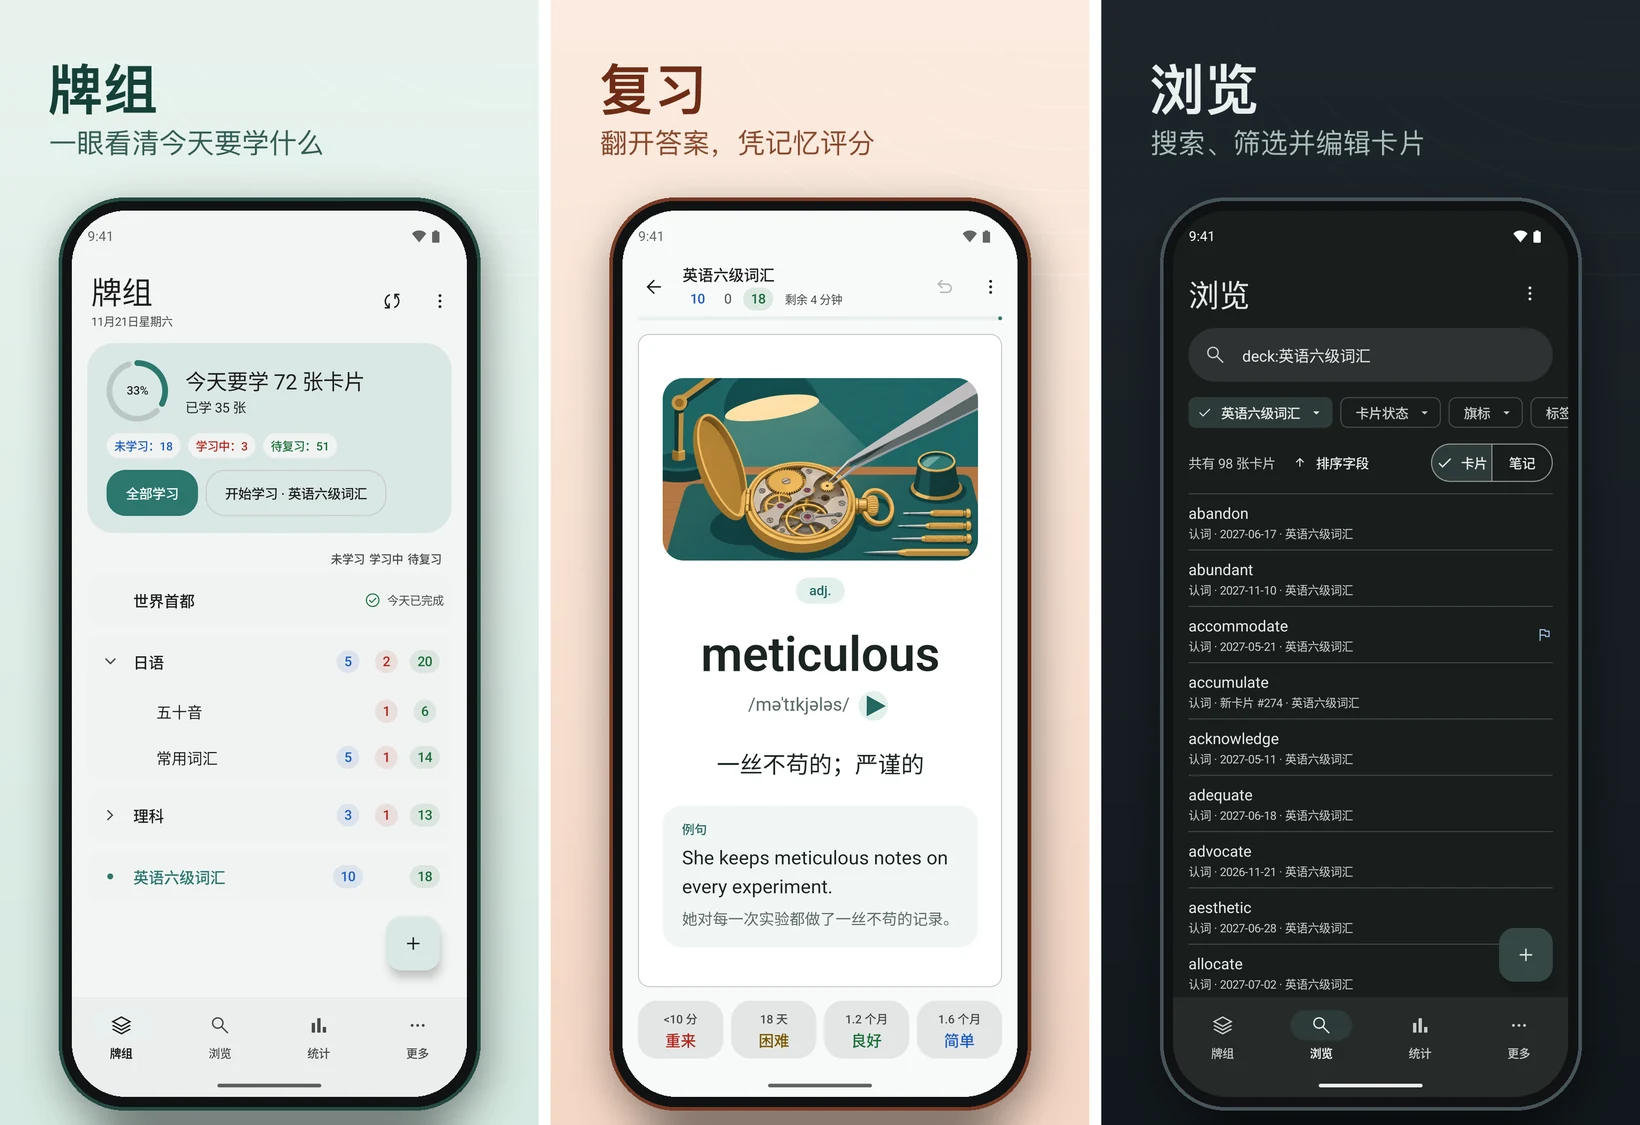
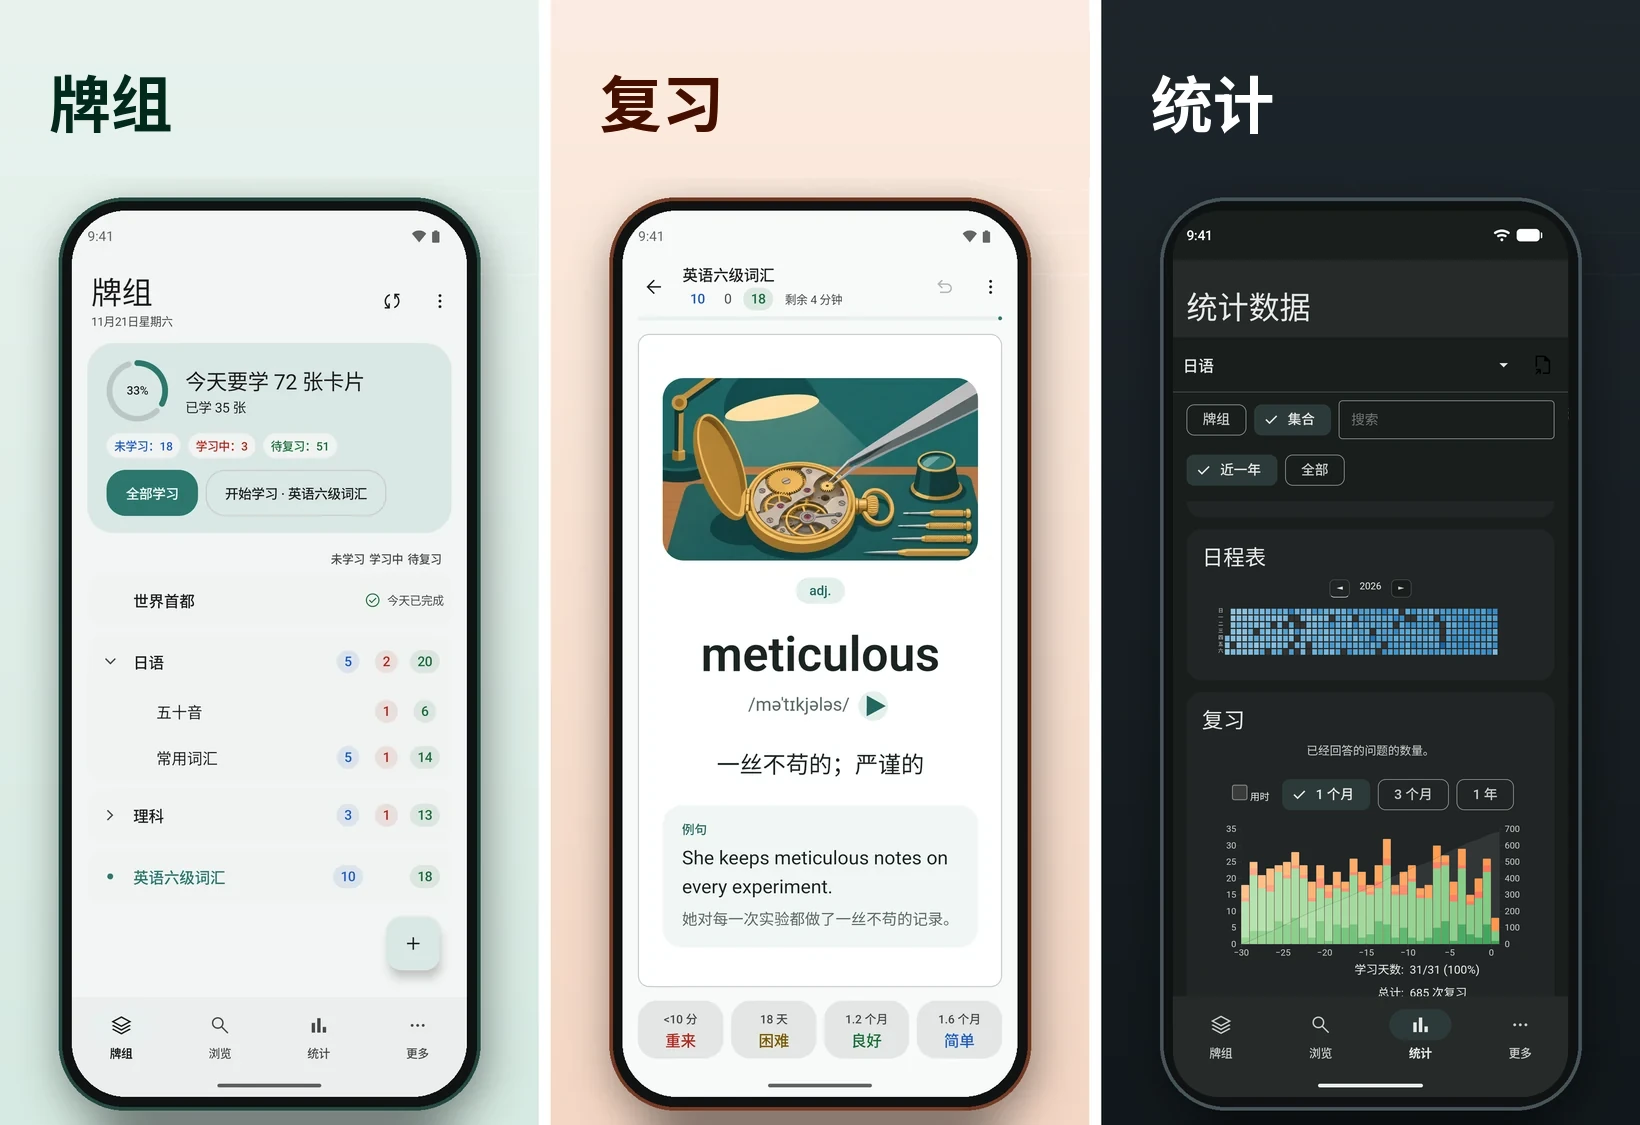
Show statistics in the README showcase and add project badges
Replace the card browser panel with a dark-mode statistics screen from
a sample collection with a year of simulated reviews, captured on
Android 17 with WebView 149. Drop the clipped subtitles and redraw the
three panel titles in one typeface.

Remove the separate review history section and its images, add the
Hayaki = Hayaku + Anki line, and add Android, SDK, Kotlin, Compose and
licence badges to both READMEs.

diff --git a/README.md b/README.md
@@ -2,19 +2,26 @@
 
 <h1 align="center">Hayaki for Android</h1>
 
+<p align="center"><b>Hayaki = Hayaku + Anki</b></p>
+
 <p align="center">An offline flashcard app for your Anki collection.</p>
 <p align="center">
   <a href="https://github.com/amemiya02/Hayaki/releases/latest"><img src="https://img.shields.io/github/v/release/amemiya02/Hayaki?label=Hayaki&amp;color=67539a" alt="Latest release"></a>
   <a href="https://github.com/amemiya02/Hayaki/actions/workflows/tests_unit.yml?query=branch%3Amain+event%3Apush"><img src="https://github.com/amemiya02/Hayaki/actions/workflows/tests_unit.yml/badge.svg?branch=main&amp;event=push" alt="Unit tests"></a>
   <a href="https://github.com/amemiya02/Hayaki/actions/workflows/tests_emulator.yml?query=branch%3Amain+event%3Apush"><img src="https://github.com/amemiya02/Hayaki/actions/workflows/tests_emulator.yml/badge.svg?branch=main&amp;event=push" alt="Emulator tests"></a>
   <a href="https://github.com/amemiya02/Hayaki/actions/workflows/lint.yml?query=branch%3Amain+event%3Apush"><img src="https://github.com/amemiya02/Hayaki/actions/workflows/lint.yml/badge.svg?branch=main&amp;event=push" alt="Code quality checks"></a>
+  <a href="#install-or-build"><img src="https://img.shields.io/badge/Android-7.0%2B-3DDC84?logo=android&amp;logoColor=white" alt="Android 7.0 or later"></a>
+  <a href="gradle/libs.versions.toml"><img src="https://img.shields.io/badge/target%20SDK-36-3DDC84?logo=android&amp;logoColor=white" alt="Targets Android SDK 36"></a>
+  <a href="https://kotlinlang.org/"><img src="https://img.shields.io/badge/Kotlin-7F52FF?logo=kotlin&amp;logoColor=white" alt="Written in Kotlin"></a>
+  <a href="https://developer.android.com/compose"><img src="https://img.shields.io/badge/Jetpack%20Compose-4285F4?logo=jetpackcompose&amp;logoColor=white" alt="Interface built with Jetpack Compose"></a>
+  <a href="COPYING"><img src="https://img.shields.io/github/license/amemiya02/Hayaki?color=blue" alt="License: GPL-3.0"></a>
 </p>
 
 <p align="center"><a href="README.zh-CN.md">简体中文</a> · <a href="https://github.com/amemiya02/Hayaki-iOS">Hayaki for iPhone and iPad</a> · <a href="docs/releases/0.2.0.md">0.2.0 release notes</a></p>
 
 Open Hayaki to see what’s due across your decks. Pick one deck or tap **Study All** to work through them in sequence. Reveal the answer, then rate how well you remembered it. The Anki scheduler uses that rating to decide when the card comes back.
 
-<p align="center"><img src="docs/images/en-showcase.webp" width="820" alt="Hayaki on Android showing today’s decks with 72 cards to study, an illustrated Japanese vocabulary answer with four ratings, and the card browser in dark mode"></p>
+<p align="center"><img src="docs/images/en-showcase.webp" width="820" alt="Hayaki on Android showing today’s decks with 72 cards to study, an illustrated Japanese vocabulary answer with four ratings, and a year of review statistics in dark mode"></p>
 
 <p align="center"><sub>Screenshots of the app with a sample collection and simulated study history.</sub></p>
 
@@ -24,12 +31,6 @@ Open Hayaki to see what’s due across your decks. Pick one deck or tap **Study 
 - **Look up a card.** Browse lets you search your collection, filter by deck, card state, flag or tag, and edit the underlying note. Statistics shows your review history and upcoming workload. [See the card browser](docs/images/en-card-browser.png)
 - **Read comfortably.** Choose from ten colour themes, independently of System, Light, Dark or Black appearance. Cards keep their authored formatting, images, audio and maths. On phones and wide screens you can reveal and rate with TalkBack and enlarged text.
 - **Move between devices.** Study offline, then sync when you choose with AnkiWeb or a self-hosted Anki sync server.
-
-## Your review history
-
-Each square marks a day in the sample collection. The bars below show how 812 reviews were spread across the last 31 days.
-
-<p align="center"><a href="docs/images/en-statistics.png"><img src="docs/images/en-statistics.png" width="530" alt="Statistics showing a year of study activity and a month of daily review counts"></a></p>
 
 ## Install or build
 

diff --git a/README.zh-CN.md b/README.zh-CN.md
@@ -2,19 +2,26 @@
 
 <h1 align="center">Hayaki 安卓版</h1>
 
+<p align="center"><b>Hayaki = Hayaku + Anki</b></p>
+
 <p align="center">用自己的 Anki 牌组，离线学习和复习。</p>
 <p align="center">
   <a href="https://github.com/amemiya02/Hayaki/releases/latest"><img src="https://img.shields.io/github/v/release/amemiya02/Hayaki?label=Hayaki&amp;color=67539a" alt="最新正式版"></a>
   <a href="https://github.com/amemiya02/Hayaki/actions/workflows/tests_unit.yml?query=branch%3Amain+event%3Apush"><img src="https://github.com/amemiya02/Hayaki/actions/workflows/tests_unit.yml/badge.svg?branch=main&amp;event=push" alt="单元测试"></a>
   <a href="https://github.com/amemiya02/Hayaki/actions/workflows/tests_emulator.yml?query=branch%3Amain+event%3Apush"><img src="https://github.com/amemiya02/Hayaki/actions/workflows/tests_emulator.yml/badge.svg?branch=main&amp;event=push" alt="模拟器测试"></a>
   <a href="https://github.com/amemiya02/Hayaki/actions/workflows/lint.yml?query=branch%3Amain+event%3Apush"><img src="https://github.com/amemiya02/Hayaki/actions/workflows/lint.yml/badge.svg?branch=main&amp;event=push" alt="代码质量检查"></a>
+  <a href="#安装与构建"><img src="https://img.shields.io/badge/Android-7.0%2B-3DDC84?logo=android&amp;logoColor=white" alt="支持 Android 7.0 及以上版本"></a>
+  <a href="gradle/libs.versions.toml"><img src="https://img.shields.io/badge/target%20SDK-36-3DDC84?logo=android&amp;logoColor=white" alt="目标 SDK 36"></a>
+  <a href="https://kotlinlang.org/"><img src="https://img.shields.io/badge/Kotlin-7F52FF?logo=kotlin&amp;logoColor=white" alt="使用 Kotlin 编写"></a>
+  <a href="https://developer.android.com/compose"><img src="https://img.shields.io/badge/Jetpack%20Compose-4285F4?logo=jetpackcompose&amp;logoColor=white" alt="界面使用 Jetpack Compose 构建"></a>
+  <a href="COPYING"><img src="https://img.shields.io/github/license/amemiya02/Hayaki?color=blue" alt="许可证：GPL-3.0"></a>
 </p>
 
 <p align="center"><a href="README.md">English</a> · <a href="https://github.com/amemiya02/Hayaki-iOS">iPhone 与 iPad 版</a> · <a href="docs/releases/0.2.0.md">0.2.0 版本说明</a></p>
 
 打开 Hayaki，就能看到今天每个牌组有多少张新卡、多少张待复习。可以选一副牌，也可以点「全部学习」，依次学完多个牌组。先回忆，再翻开答案，按记忆程度评分。Anki 调度器会据此安排下次复习。
 
-<p align="center"><img src="docs/images/zh-showcase.webp" width="820" alt="Hayaki 安卓版界面：牌组首页显示今天要学 72 张卡片，带插画的英语六级单词答案及四个评分，以及深色模式下的卡片浏览页"></p>
+<p align="center"><img src="docs/images/zh-showcase.webp" width="820" alt="Hayaki 安卓版界面：牌组首页显示今天要学 72 张卡片，带插画的英语六级单词答案及四个评分，以及深色模式下的全年复习统计"></p>
 
 <p align="center"><sub>截图来自真实应用，使用示例集合和模拟的学习记录。</sub></p>
 
@@ -24,12 +31,6 @@
 - **查卡和改笔记。** 在浏览页搜索卡片，按牌组、卡片状态、旗标或标签筛选，点进卡片即可编辑笔记。统计页可以查看复习历史和未来的学习量。[查看卡片浏览页截图](docs/images/zh-card-browser.png)
 - **调整阅读体验。** 十套配色可与跟随系统、浅色、深色或纯黑外观自由搭配。卡片保留制作者设置的排版、图片、音频和数学公式。手机和大屏都支持放大字号，也可以用 TalkBack 读屏完成翻面和评分。
 - **跨设备接着学。** 平时可以全程离线。需要同步时，登录 AnkiWeb，或连接自托管的 Anki 同步服务器。
-
-## 回看复习记录
-
-日历里每一格代表一天。下方柱状图展示了这份示例集合在最近 31 天里完成的 764 次复习。
-
-<p align="center"><a href="docs/images/zh-statistics.png"><img src="docs/images/zh-statistics.png" width="530" alt="统计页显示全年的学习日历，以及最近一个月每天的复习量"></a></p>
 
 ## 安装与构建
 
